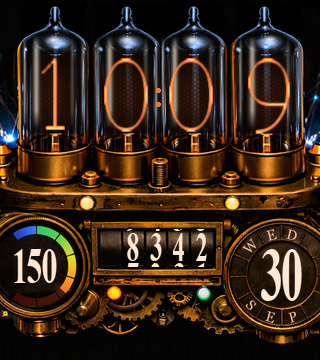
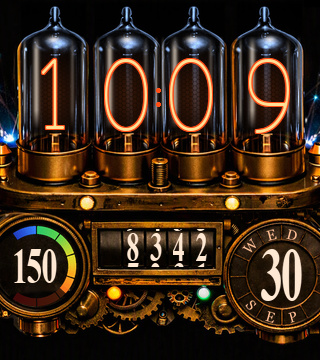
docs: L64 - device readability outranks the look chosen on screen

Changed region(s): [[0.3125, 0.1528, 0.6875, 0.3667], [0.7812, 0.1528, 0.9062, 0.3667], [0.125, 0.1528, 0.2188, 0.3667]]

diff --git a/docs/LESSONS_LEARNT.md b/docs/LESSONS_LEARNT.md
@@ -513,3 +513,23 @@ Both were built, measured and then dropped — neither is on the face now.
 - **Measure from the frame you are measuring.** Points read off the shipping frame must be inverted
   through the SHIPPING transform. Using `_unmap` (which inverts layout C, the older 0.95 zoom) put the
   spark emitters and their band 5 % off — a whole tuning pass went into a geometry error.
+
+**L64. Readability on the device outranks the look that was chosen on the screen.** The tube digits
+shipped THIN — `make_fonts.py` eroded Nixie One by 1 px per side to match a reference photograph of a
+wire cathode — and the user reported them "really hard to read on the device". Measured on the
+rendered frame (glyph ink plus its 1 px halo, as the eye sees it): 4.2 px stroke at 5.0:1 contrast
+against the glass. Natural weight is 6.2 px at 6.2:1 and one step fatter again (`thick=1`) is 9.0 px
+at 6.6:1. The eroded stroke was ~3 px of glyph at 74 px ink, and the AMOLED plus the panel's own
+small-pixel behaviour washed it out — a 3 px line is not a wire at arm's length, it is a gap.
+
+Consequences worth keeping:
+
+- **Weight and colour are the two cheapest readability levers, and both are font/ink changes, not
+  layout changes.** A reference photograph is a stand-in for taste, not a measurement of what a
+  panel can show; prototype the weight on the device before adopting it.
+- **The 1 px halo IS most of the digit's colour at this size.** With a 3-6 px stroke, a ring at
+  radius 1 covers the outer pixels of the stroke, so the digit reads as the RING colour around a
+  thin pale core — which is why "make the digits redder" was a change to `INK_GLOW1`, not to the core
+  in `INK_TIME`. (Same finding as L63's separator dots, from the other direction.)
+- **`thin`/`thick` are one argument each on the font generator**, so going back is a one-line change
+  plus `make.py assets`, not a redesign.
